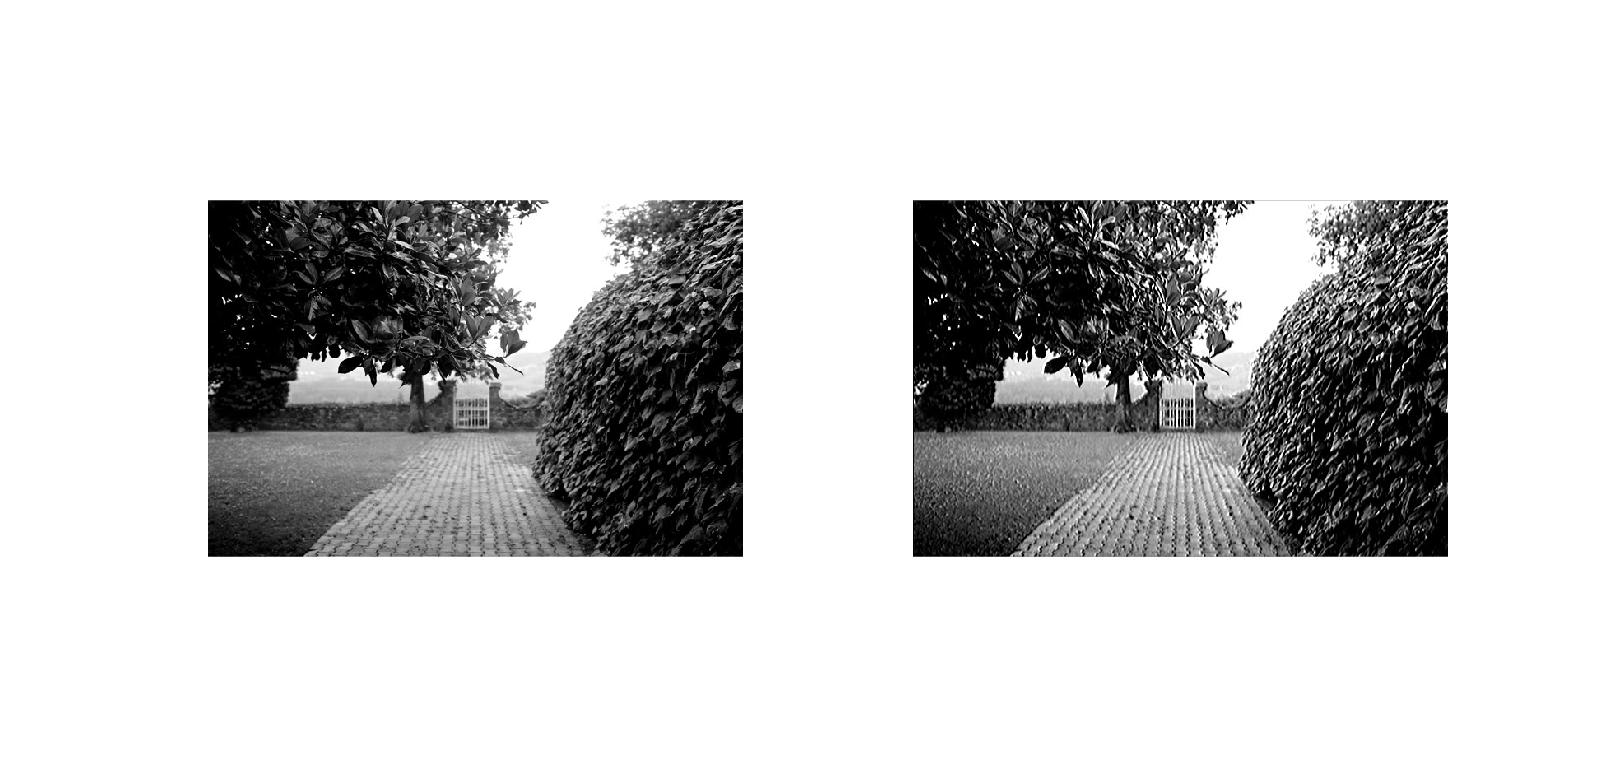
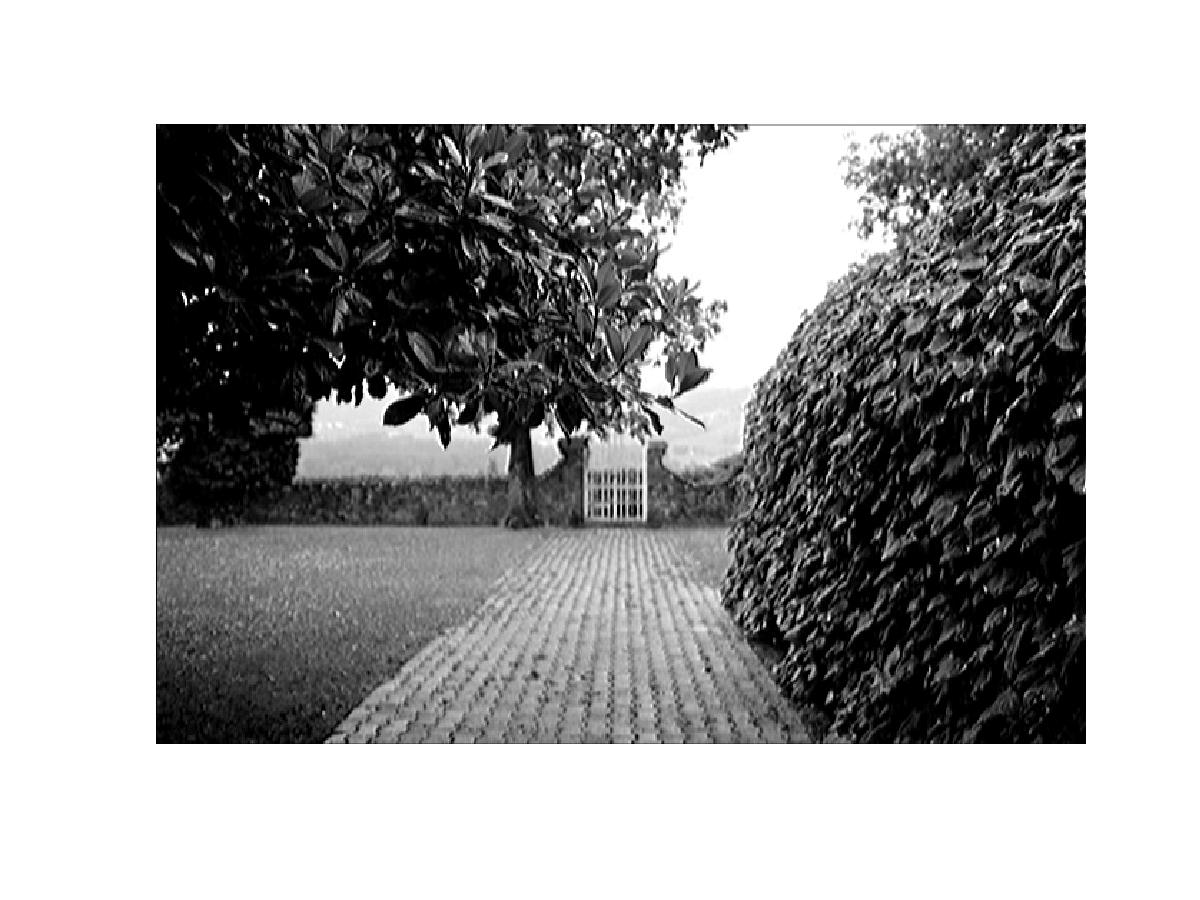
some changes on lista 2

diff --git a/lista2/Q5/q5.m b/lista2/Q5/q5.m
@@ -1,8 +1,16 @@
-ker = [-2, 1, 2; -3, 2, 3; -2, 1, 2];
+ker = [-1, 1, 1; -1, 1, 1; -1, 1, 1];
 s = sum(sum(ker));
 ker = ker / s;
 img = imread('imagem.jpg');
-before = uint8(rgb2gray(img));
+before = uint8(img); % if on matlab before = rgb2gray(img)
 after = uint8(my_conv2d(before, ker));
-subplot(1, 2, 1), imshow(before);
-subplot(1, 2, 2), imshow(after);
+imshow(after);
+
+%{
+	A minha tentativa foi fazer um kernel que conseguisse usar a tecnica de embaçar um pouco a imagem
+	e ao mesmo tempo tentar evidenciar as bordas. Pois com isso a imagem ficaria um pouco mais 
+	"uniforme", mas n perderia suas caracteristicas importates de borda.
+	Ẽntão pensei em distribuir um peso de magnitude igual para cada pixel, mas invertendo o sinal
+	da primeira colunca (como no kernel de detecção de bordas)
+	O resultado foi bem próximo do esperado.
+%}

diff --git a/lista2/Q4/q4.m b/lista2/Q4/q4.m
@@ -1,8 +1,11 @@
 ker = [-1, 0, 1; -2, 0, 2; -1, 0, 1];
 
 img = imread('imagem.jpg');
-before = uint8(rgb2gray(img));
+before = uint8(img); % if on matlab before = rgb2gray(img)
 after = uint8(my_conv2d(before, ker));
-subplot(1, 2, 1), imshow(before);
-subplot(1, 2, 2), imshow(after);
+imshow(after);
 
+%{
+	Com este filtro, podemos ver um destaque grande para as bordas da imagem.
+	É fácil perceber que o maior destaque está nas bordas dos objetos.
+%}

diff --git a/lista2/Q3/q3.m b/lista2/Q3/q3.m
@@ -1,7 +1,11 @@
 ker = 1/9 * ones(3);
 
 img = imread('imagem.jpg');
-before = uint8(rgb2gray(img));
+before = uint8(img); % if on matlab before = rgb2gray(img)
 after = uint8(my_conv2d(before, ker));
-subplot(1, 2, 1), imshow(before);
-subplot(1, 2, 2), imshow(after);
+imshow(after);
+
+%{
+	Com este kernel vemos que a imagem é um pouco embaçada, isso por que cada pixel ao redor do atual
+	cotribiu igualmente para o pixel final resultante.
+%}

diff --git a/lista2/Q1/q1.m b/lista2/Q1/q1.m
@@ -4,4 +4,7 @@ y = my_conv(x, ker)
 %{
 	y =
     20     4     1    -3     1    31  -133     2    -1     6    -7     0     1   233    -3
-}%
+	
+	Com isso percebemos que a convolução nos ajudou a dar maior destaque para as 
+	mudanças grandes na escala dos valores(o que pode se caracterizar como borda).
+%}
